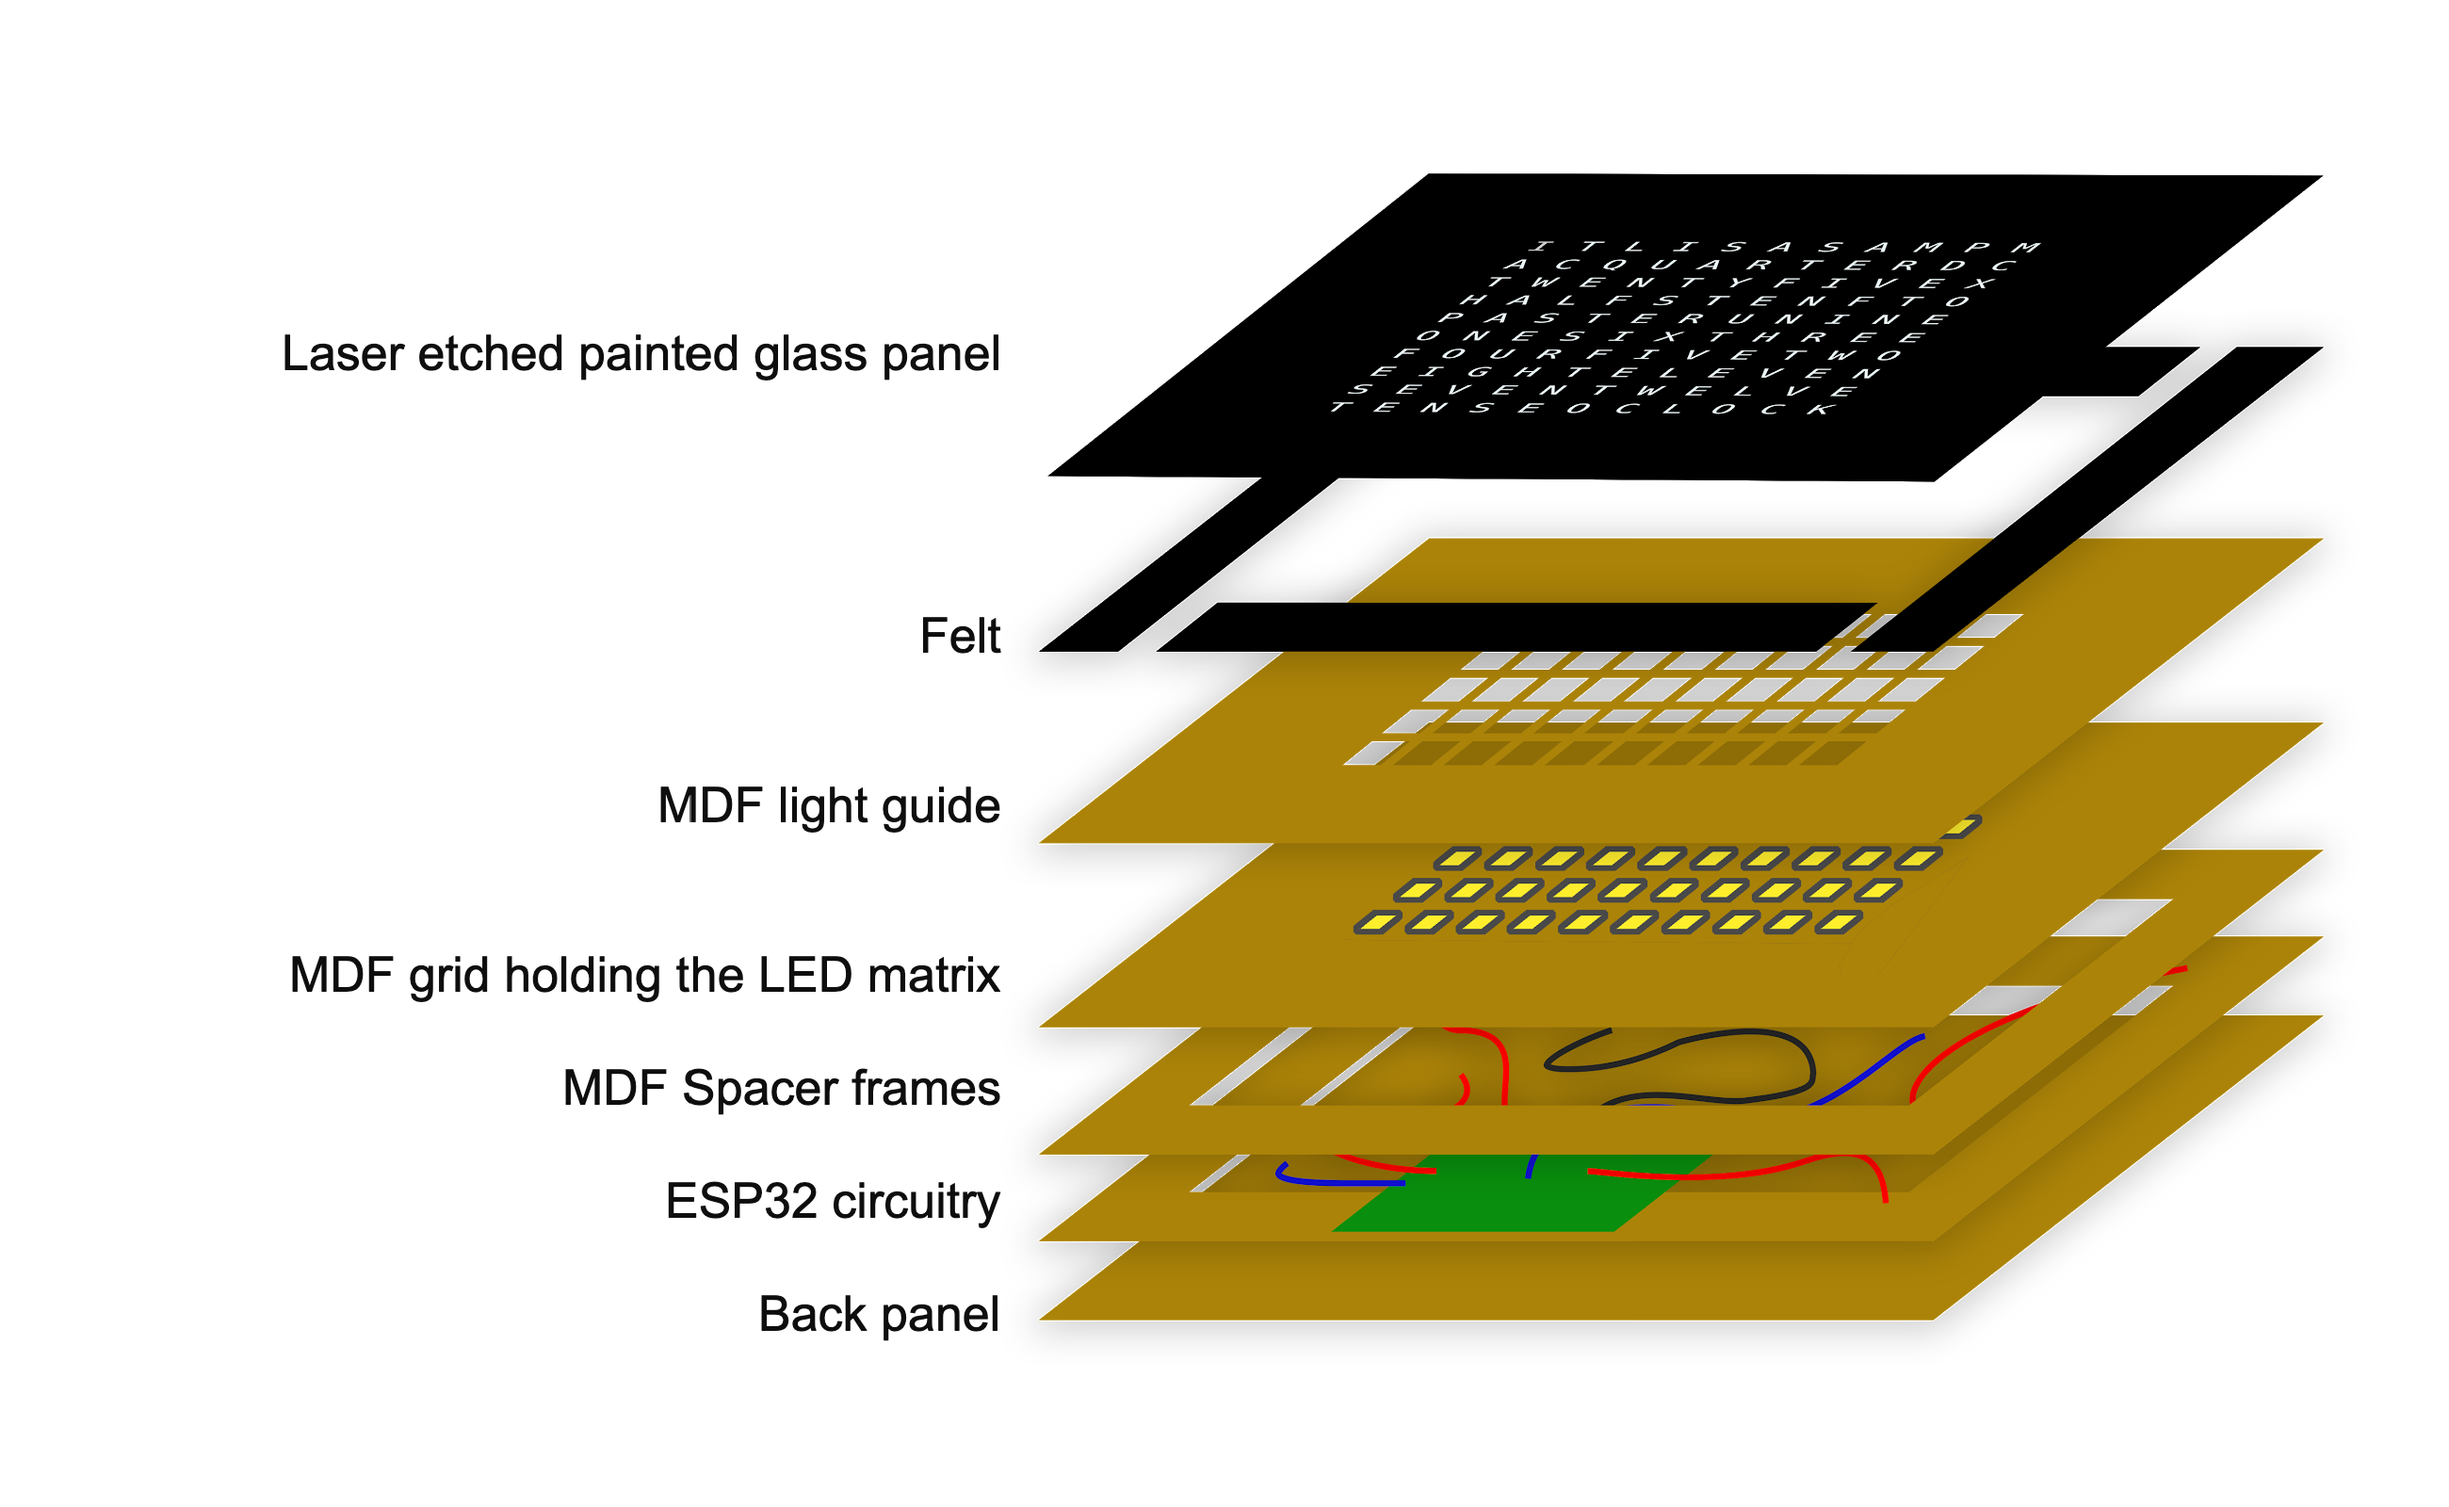
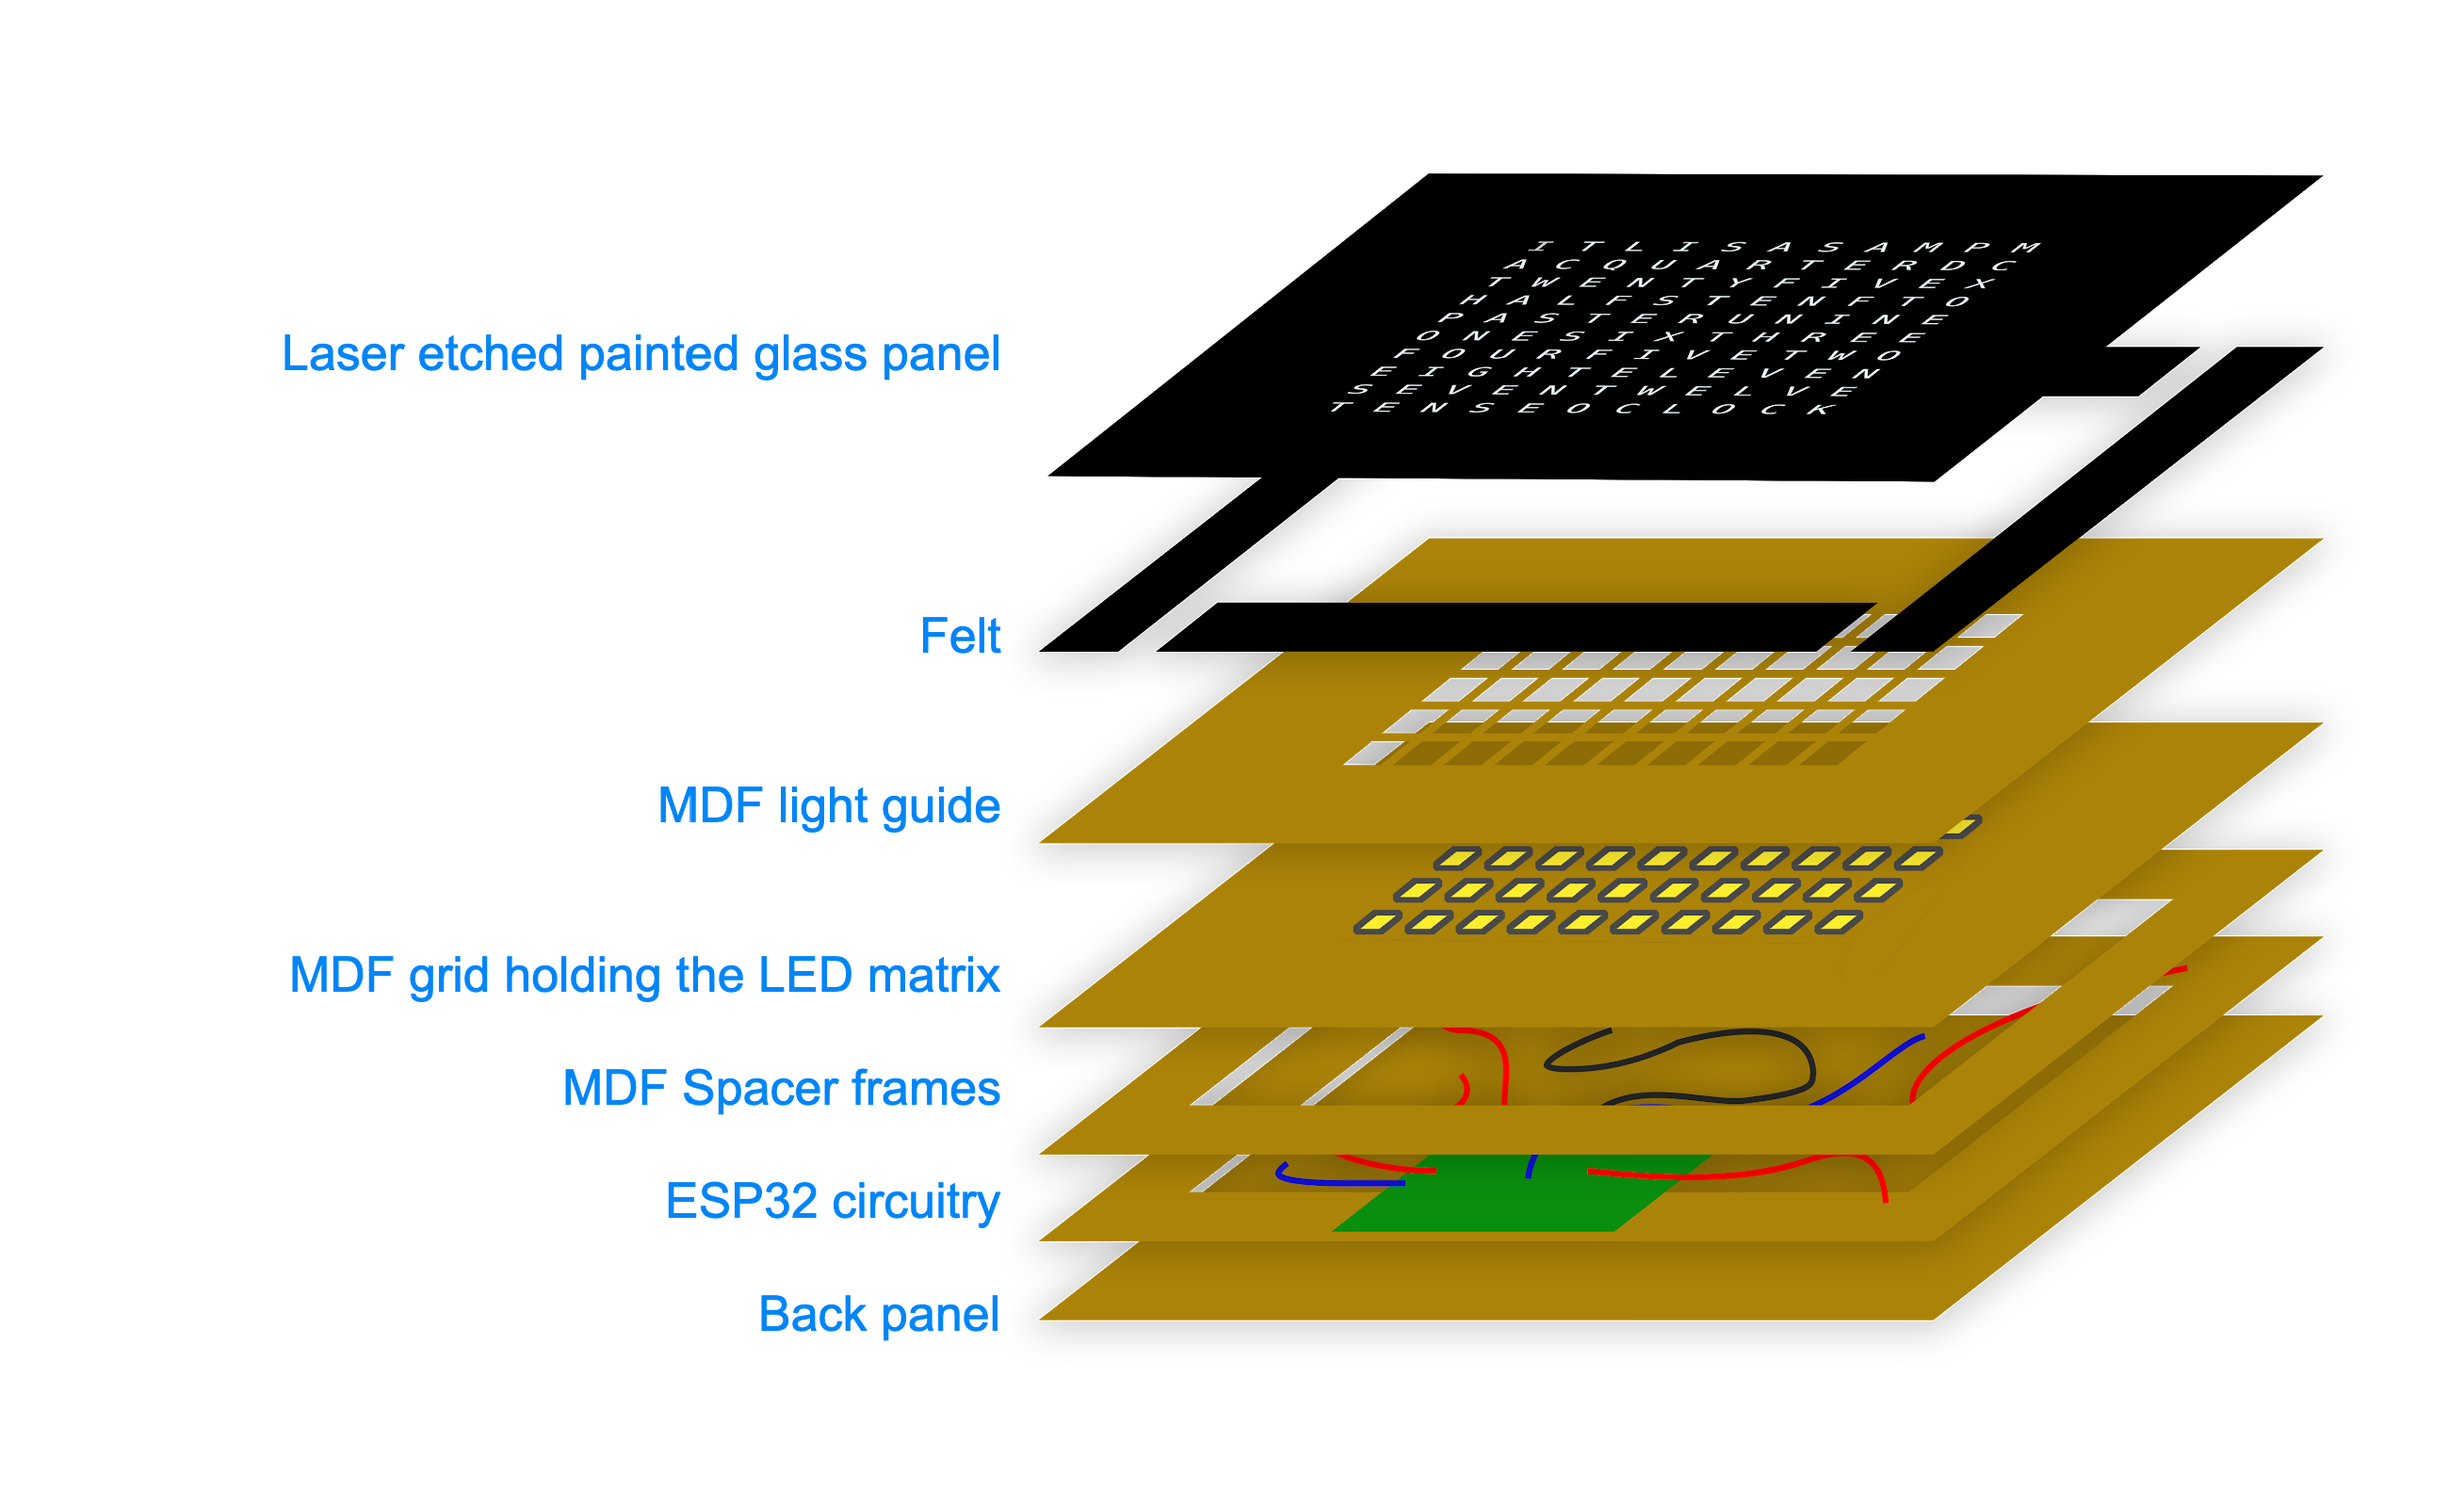
Dark mode friendly breakdown image, small tweaks in README

diff --git a/README.md b/README.md
@@ -7,7 +7,13 @@ Another take on the classic DIY word clock. This one requires a laser cutter but
 
 This project was designed for the tools available in our makerspace. The largest square that can be cut in an Epilog Mini laser cutter is approximately 30x30cm, so the clock is designed around that constraint.
 
-[ TOC ]
+- [Wordclock](#wordclock)
+  * [Project overview](#project-overview)
+    + [Hardware](#hardware)
+    + [Software](#software)
+  * [Bill Of Materials](#bill-of-materials)
+    + [Electronics](#electronics)
+    + [Frame](#frame)
 
 ## Project overview
 
@@ -42,9 +48,9 @@ It is, of course, entirely possible to ditch that code entirely and use [ESPHome
 ESP32 (WROOM32) microcontroller | [amazon.fr](https://www.amazon.fr/gp/product/B06XWVS2SJ/ref=ox_sc_act_title_6?smid=A3OY00ITR6XRNR&psc=1) | 5,99 € |
 DS3231 RTC module | [amazon.fr](https://www.amazon.fr/gp/product/B07DK5M5VW/) | 3,66 € |
 Level shifter 3.3 -> 5v | [amazon.fr](https://www.amazon.fr/gp/product/B07LG6RK7L) | 0,80 € |
-RGB addressable LEDs, 60 per meter, 1 meter roll | [aliexpress.com](https://www.aliexpress.com/item/32958709980.html?spm=2114.search0104.3.35.2a616adcbmvvSU&ws_ab_test=searchweb0_0%2Csearchweb201602_4_10065_10130_10068_10547_319_317_10545_10696_10084_453_454_10083_10618_10307_10821_537_10302_536_10059_10884_10887_321_322_10103%2Csearchweb201603_53%2CppcSwitch_0&algo_expid=2a4f6a2a-c5bc-4435-a3ff-21b692aed5ff-7&algo_pvid=2a4f6a2a-c5bc-4435-a3ff-21b692aed5ff) | 4,17 € |
+RGB addressable LEDs (WS2812), 60 per meter, 1 meter roll | [aliexpress.com](https://www.aliexpress.com/item/32958709980.html?spm=2114.search0104.3.35.2a616adcbmvvSU&ws_ab_test=searchweb0_0%2Csearchweb201602_4_10065_10130_10068_10547_319_317_10545_10696_10084_453_454_10083_10618_10307_10821_537_10302_536_10059_10884_10887_321_322_10103%2Csearchweb201603_53%2CppcSwitch_0&algo_expid=2a4f6a2a-c5bc-4435-a3ff-21b692aed5ff-7&algo_pvid=2a4f6a2a-c5bc-4435-a3ff-21b692aed5ff) | 4,17 € |
 1000 uF capacitor | [amazon.fr](https://www.amazon.fr/gp/product/B01M4IUST7) | 0,40 € |
-Power supply | [aliexpress.com](https://fr.aliexpress.com/item/32835554243.html) | 6,99 € |
+Power supply (5V, 6A) | [aliexpress.com](https://fr.aliexpress.com/item/32835554243.html) | 6,99 € |
 Female barrel plug | [amazon.fr](https://www.amazon.fr/gp/product/B06XPBKC37) | 0,86 € |
 Light dependent resistor (LDR 5537) | [amazon.fr](https://www.amazon.fr/gp/product/B074QLFCF6/) | 0,08 € |
 Resistor 10k |
